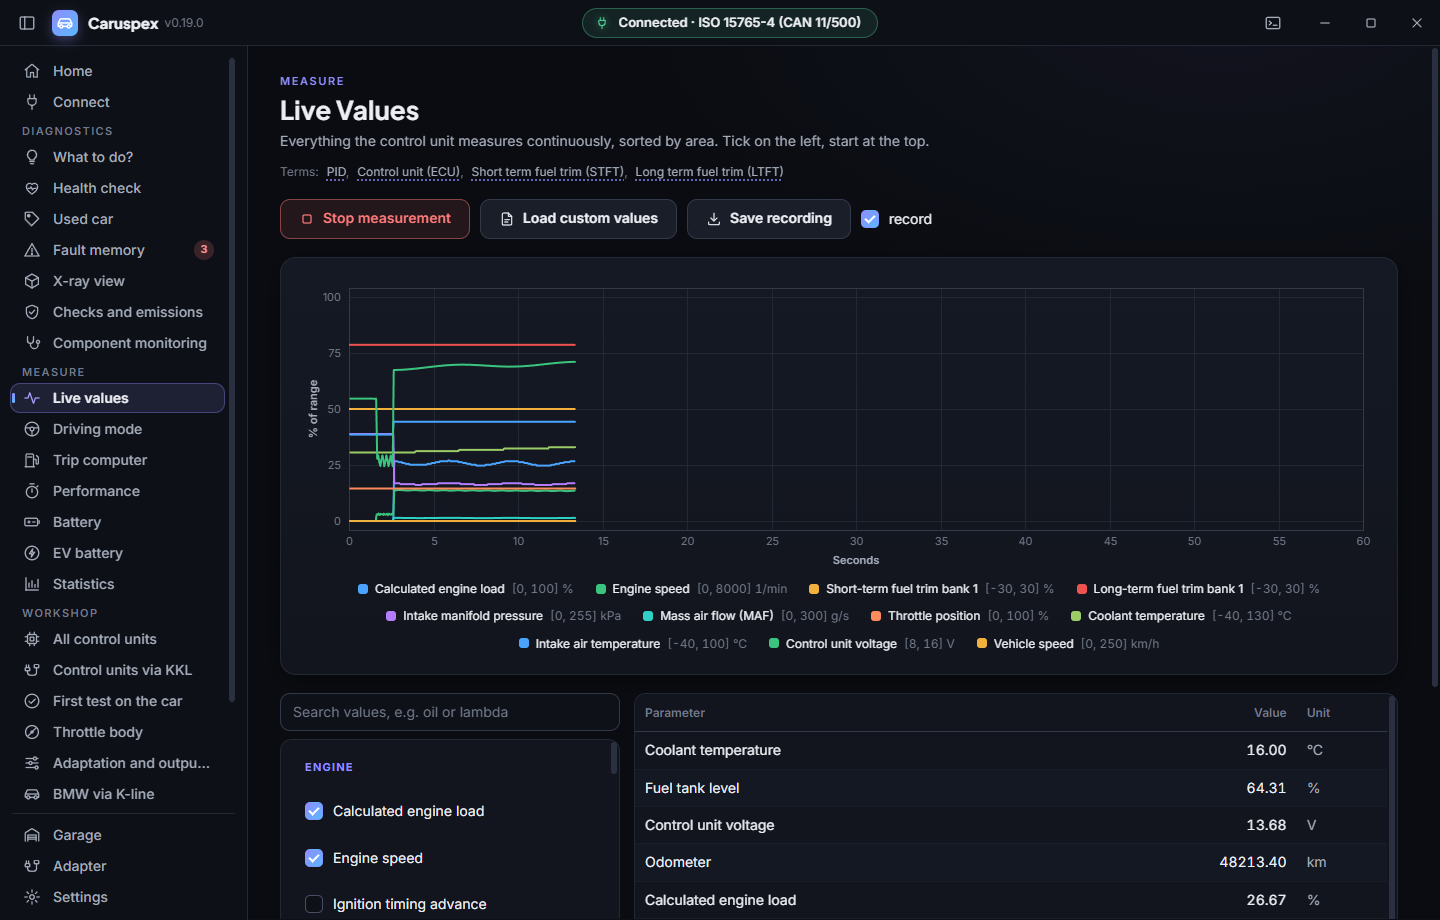
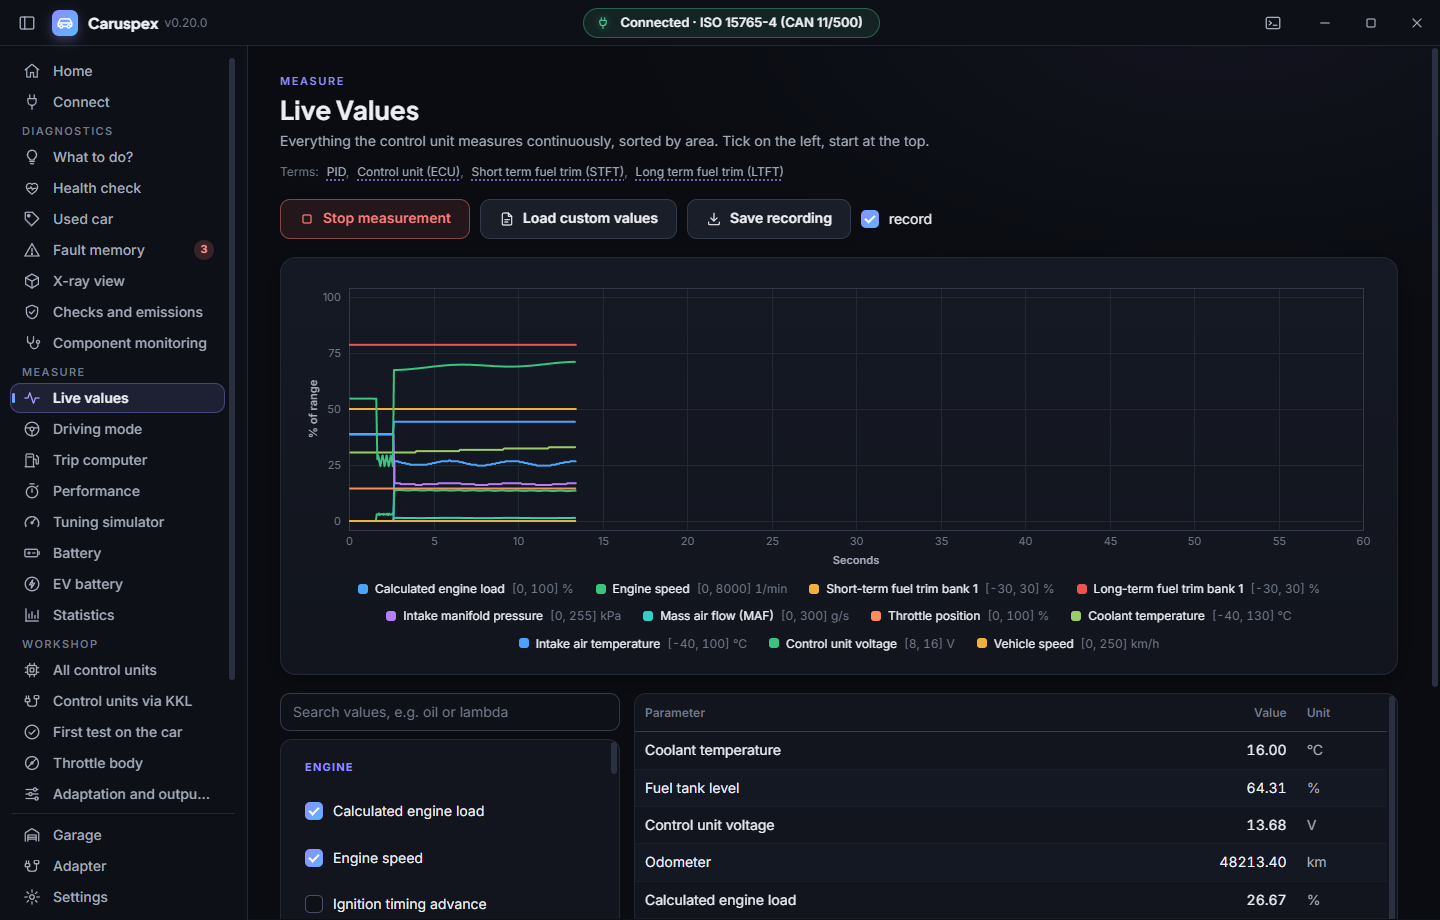
Version 0.20.0 mit Aenderungsliste auf Deutsch und Englisch

Changed region(s): [[0.0, 0.5478, 0.125, 0.8826], [0.4062, 0.0, 0.625, 0.0304], [0.125, 0.0, 0.1562, 0.0304]]

diff --git a/changelog/0.20.0.md b/changelog/0.20.0.md
@@ -1,0 +1,39 @@
+## Deutsch
+
+Ein Tuning-Simulator für den BMW N55 und ein deutlich kleineres Programm.
+
+**Tuning-Simulator für den BMW N55 (435i)**
+- Neue Seite im Profimodus: Ladedruck, Zündung und Gemisch je Drehzahlbereich ändern und sehen, was mit Drehmoment und Leistung passiert
+- Warnungen mit klarem Grund für Klopfgrenze, Abgastemperatur, Turbolader, Hochdruckpumpe, Einspritzung, Vorentflammung bei niedriger Drehzahl und Getriebe
+- Ein eigener Mitschnitt lässt sich neben die Rechnung legen, mit der Abweichung je Drehzahl
+- Nur Rechnung: der Simulator schreibt nichts ins Auto und erzeugt keine Dateien für Steuergeräte
+
+**Kleiner und schneller**
+- Die Oberfläche ist von 19 MB auf 5 MB geschrumpft, das Programm um 2,5 MB; Texte und Sprachen fehlen keine
+- Auf Deutsch lädt die Oberfläche beim Start keine Sprachdatei mehr, die anderen Sprachdateien sind kleiner
+
+**Sonst**
+- Die Seite "Erster Test am Auto" bittet in der Ich-Form darum, den Bericht zu schicken
+- Aktualisierte Abhängigkeiten, darunter die Zeitbibliothek jiff 1.0 und die GitHub-Actions
+
+Hinweis: Der Tuning-Simulator ist noch an keinem echten Auto geprüft. Seine Werte sind Schätzungen eines Modells, etwa ±8 %.
+
+## English
+
+A tuning simulator for the BMW N55 and a much smaller program.
+
+**Tuning simulator for the BMW N55 (435i)**
+- New page in pro mode: change boost, ignition and mixture per rpm range and see what happens to torque and power
+- Warnings with a plain reason for the knock limit, exhaust temperature, turbocharger, high-pressure pump, injection, low-speed pre-ignition and gearbox
+- A recording of your own can be laid next to the calculation, with the deviation per rpm
+- Calculation only: the simulator writes nothing to the car and creates no files for control units
+
+**Smaller and faster**
+- The interface shrank from 19 MB to 5 MB, the program by 2.5 MB; no text or language is missing
+- In German the interface loads no language file at start any more, the other language files are smaller
+
+**Other**
+- The page "First test on the car" asks for the report in the first person
+- Updated dependencies, among them the time library jiff 1.0 and the GitHub Actions
+
+Note: the tuning simulator is not yet checked against a real car. Its values are estimates of a model, about ±8 %.
